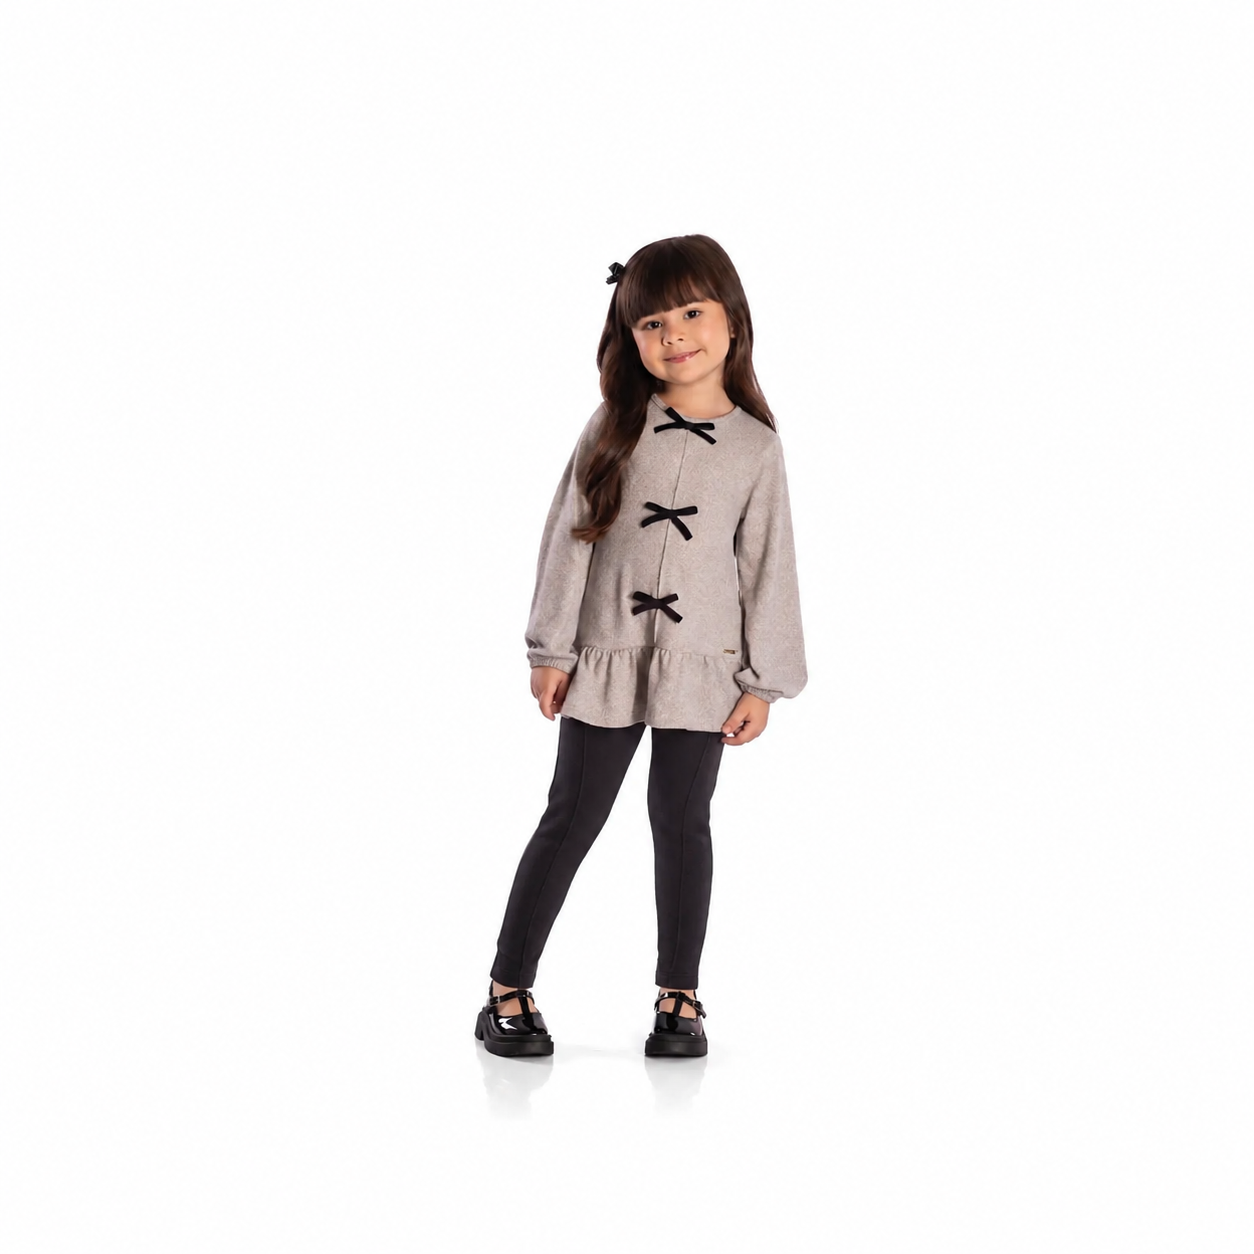
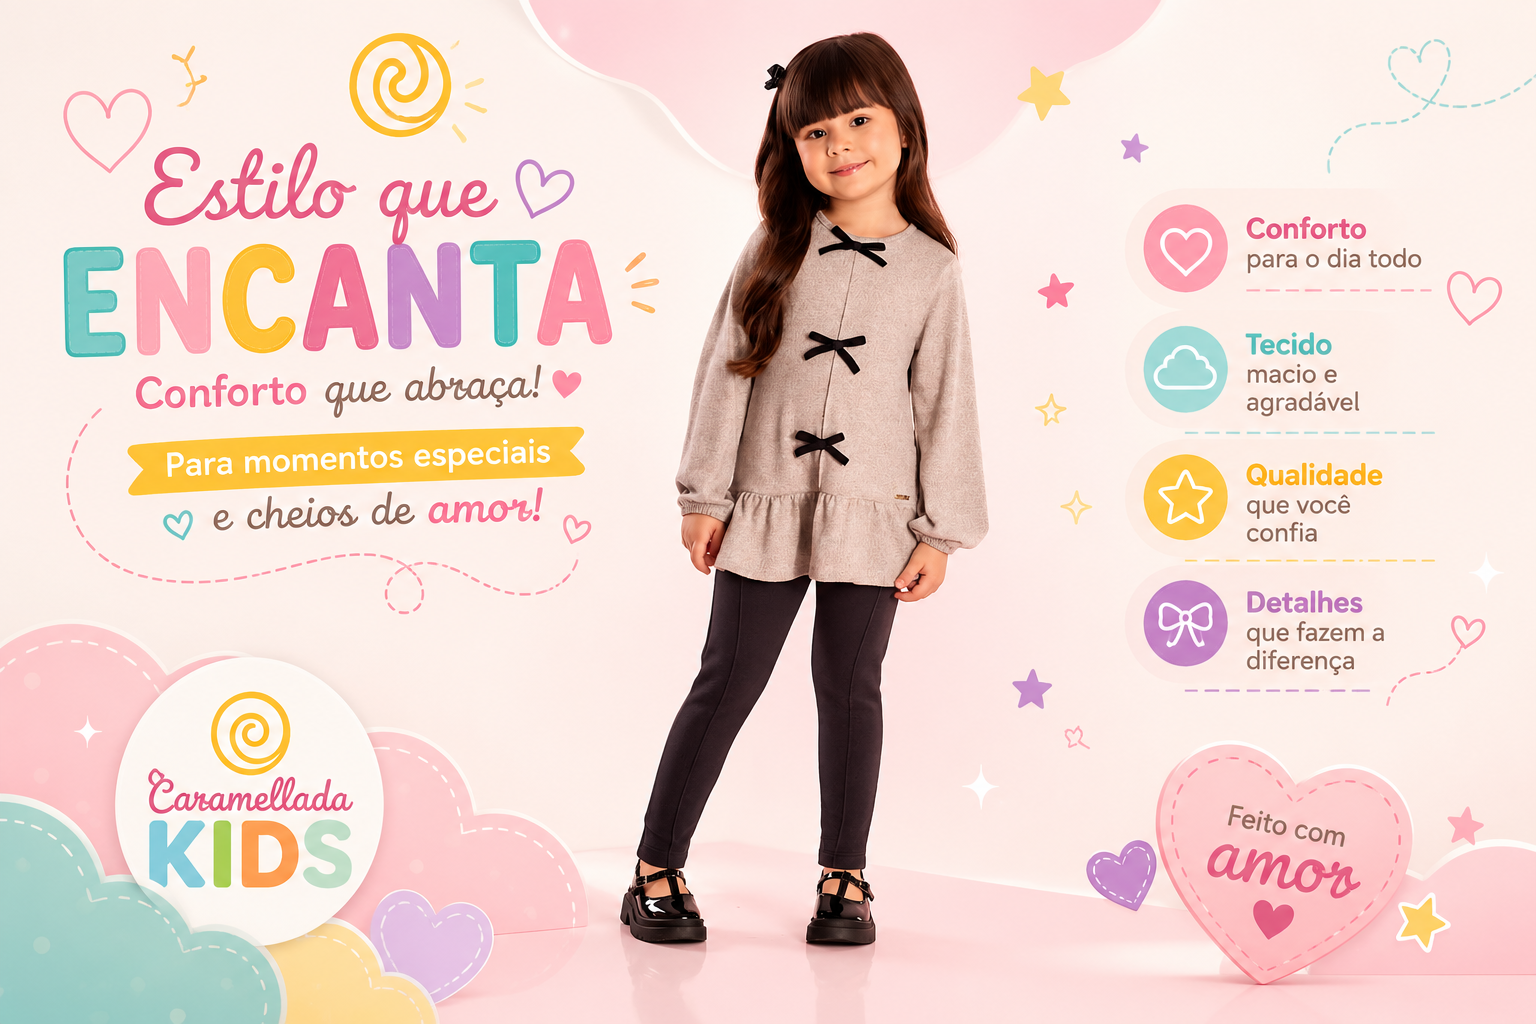
Troca imagem standalone e ajusta para formato horizontal
Nova imagem enviada pelo usuário, exibida em proporção horizontal
(3:2) com object-contain para mostrar a imagem completa.

diff --git a/src/app/page.tsx b/src/app/page.tsx
@@ -30,7 +30,7 @@ export default async function Home() {
       <CategoryGrid categories={categories} />
 
       <div className="mx-auto max-w-6xl px-4 py-6 sm:px-6">
-        <div className="relative aspect-[3/4] w-full max-w-xs overflow-hidden rounded-2xl sm:mx-auto sm:max-w-sm">
+        <div className="relative aspect-[3/2] w-full max-w-xl overflow-hidden rounded-2xl sm:mx-auto sm:max-w-2xl">
           <Image
             src="/banners/novidades-toda-semana.png"
             alt="Caramellada Kids"
